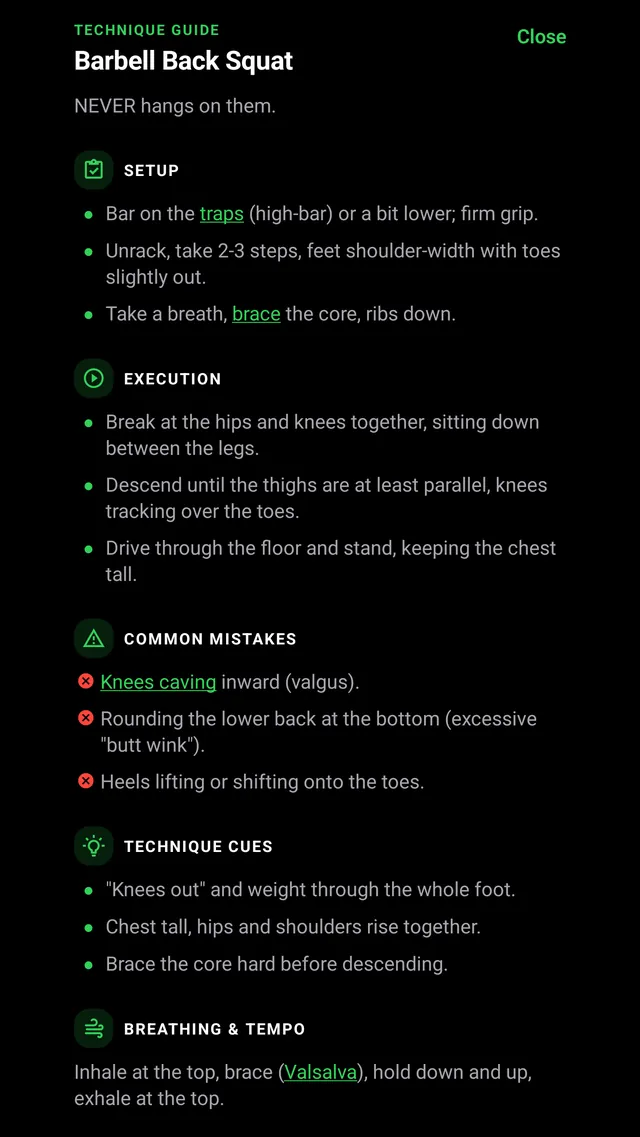
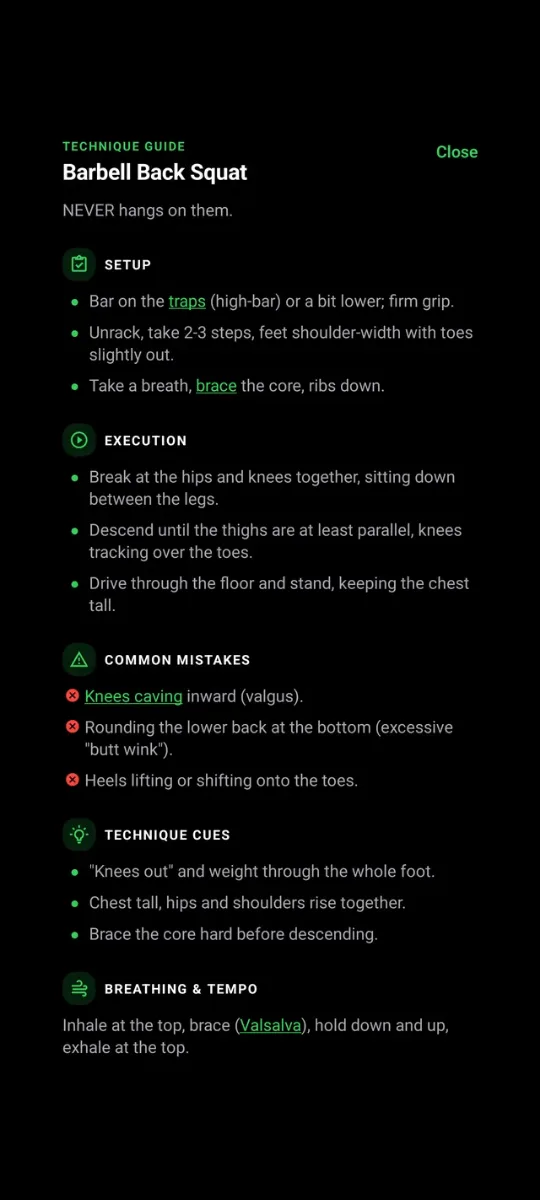
Iguala todos los marcos de móvil: mismo ancho y misma proporción
Hacerlos proporcionales no bastó: seguían midiendo 300, 270, 238, 210 y 170,
así que el bisel de los pequeños era la mitad de grueso en píxeles y no
parecían el mismo teléfono. Ahora todos miden 270 (el héroe, 300) y en
pantallas estrechas los pares se apilan en vez de encogerse.

La captura del guía de ejercicio venía en 16:9 de la web original y su marco
salía achaparrado: se rellena con negro hasta 20:9, la proporción del resto. El
fondo de esa pantalla ya es negro, así que el añadido no se ve.

Changed region(s): [[0.1185, 0.0, 0.8889, 0.985], [0.8, 0.1231, 0.8889, 0.1539], [0.8, 0.0308, 0.8889, 0.0616]]

diff --git a/app.html b/app.html
@@ -183,9 +183,9 @@
   .mcard .n.gold{color:var(--gold)} .mcard .n.grn{color:var(--green)}
   .mcard .l{font-family:"IBM Plex Mono",monospace;font-size:10.5px;letter-spacing:.14em;text-transform:uppercase;color:var(--fg-mute);margin-top:8px}
   .mcard p{margin:10px 0 0;font-size:14.5px;color:var(--fg-dim);line-height:1.5}
-  .two-shot{display:flex;gap:18px;justify-content:center}
-  .two-shot .phone{--pw:210px}.two-shot .phone:nth-child(2){margin-top:44px}
-  @media(max-width:860px){.measure{grid-template-columns:1fr;gap:36px}.two-shot .phone{--pw:170px}}
+  .two-shot{display:flex;gap:10px;justify-content:center}
+  .two-shot .phone{--pw:270px}.two-shot .phone:nth-child(2){margin-top:44px}
+  @media(max-width:860px){.measure{grid-template-columns:1fr;gap:36px}}
 
   /* rank ladder */
   .rank{position:relative;background:
@@ -383,7 +383,7 @@
   .es-only{display:none!important}
   html[lang="es"] .es-only{display:block!important}
   .rank-shot{margin-top:34px}
-  .rank-shot .phone{--pw:238px;margin:0}
+  .rank-shot .phone{--pw:270px;margin:0}
   @media(max-width:860px){.rank-shot .phone{margin:0 auto}}
   /* Tema claro: la foto del héroe y el grano están pensados para fondo negro. */
   html.lightskin .hero-bg{opacity:.25}
@@ -403,6 +403,10 @@
      y en escritorio no se aplicaba, con Aether en oro y el resto en gris. */
   #rank .rung .rn{color:var(--green)}
   #rank .rung.top .rn,#rank .rung.gold .rn{font-weight:600}
+  @media(max-width:760px){
+    .two-shot{flex-direction:column;align-items:center;gap:18px}
+    .two-shot .phone:nth-child(2){margin-top:0}
+  }
 </style>
 
 <div class="bg"></div>
